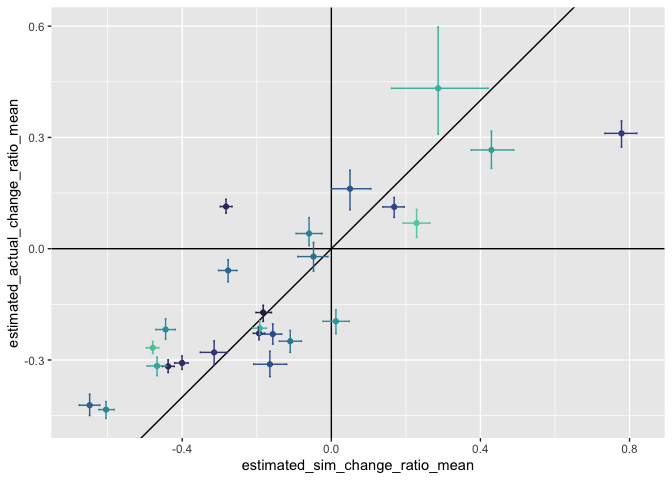
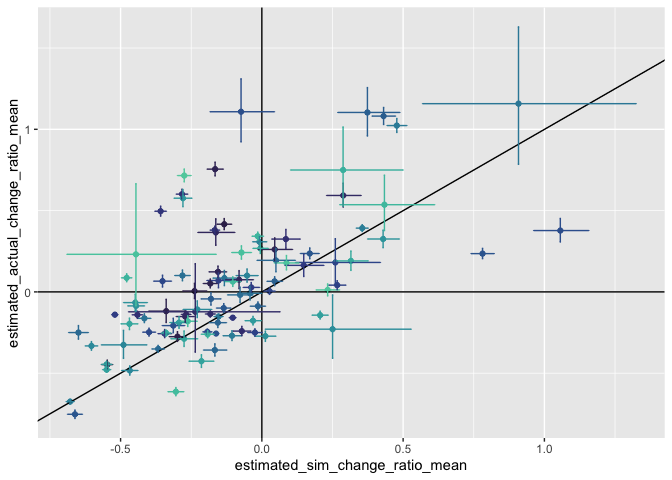
trying with just 1 sim

diff --git a/analysis_walkthroughs/resims_analysis.md b/analysis_walkthroughs/resims_analysis.md
@@ -16,12 +16,11 @@ short_sims <- filter(justsims, as.numeric(sim_iteration) <  50)
 # tbrm<- brm(total_energy ~ (timeperiod * source) / matssname, data = short_sims)
 #load(here::here("brm_50sims.Rds"))
 
-# This brm is from:
-# e_brm_full <- brm(total_energy ~ (timeperiod * source) / matssname, data = shortsims, cores = 4, iter = 10000, thin = 100)
+# Current brm is from biomass, 50 sims, 100 sites. 
 
-load(here::here("e_brm_short.Rds"))
+load(here::here("b_brm_short.Rds"))
 
-tbrm <- e_brm_short
+tbrm <- b_brm_short
 ```
 
 ``` r
@@ -155,18 +154,96 @@ ggplot(td_route_ests_summary, aes(estimated_sim_change_ratio_mean, estimated_act
 td_route_ests_summary <- td_route_ests_summary %>%
   arrange(estimated_sim_change_ratio_mean) %>%
   mutate(sim_change_ratio_rank = row_number()) %>%
-  mutate(omatssname = ordered(1:25, labels = matssname))
+  mutate(omatssname = ordered(1:nrow(td_route_ests_summary), labels = matssname))
 
 
 
 ggplot(td_route_ests_summary, aes(estimated_sim_change_ratio_mean, omatssname)) + 
-  geom_point() +
+ # geom_point() +
   geom_errorbarh(aes(xmin = estimated_sim_change_ratio_lower, xmax = estimated_sim_change_ratio_upper)) + 
-  geom_point(aes(x = estimated_actual_change_ratio_mean), color = "blue", alpha = .6) +
-  geom_errorbarh(aes(xmin = estimated_actual_change_ratio_lower, xmax = estimated_actual_change_ratio_upper), color = "blue", alpha = .6) + 
+ # geom_point(aes(x = estimated_actual_change_ratio_mean), color = "blue", alpha = .6) +
+  geom_errorbarh(aes(xmin = estimated_actual_change_ratio_lower, xmax = estimated_actual_change_ratio_upper), color = "blue", alpha = .3) + 
   geom_vline(xintercept = 0) +
   theme_bw() +
-  theme(axis.text.y = element_blank())
+  theme(axis.text.y = element_blank(), panel.grid.major= element_blank())
 ```
 
 ![](resims_analysis_files/figure-gfm/unnamed-chunk-4-1.png)<!-- -->
+
+Some interpretation points…
+
+``` r
+td_route_ests_interp <- td_route_ests_summary %>%
+  group_by_all() %>%
+  mutate(
+    abundance_change_ratio_over_zero = (estimated_sim_change_ratio_upper * estimated_sim_change_ratio_lower) < 0,
+    currency_over_abundance = ((estimated_sim_change_ratio_upper < estimated_actual_change_ratio_lower)),
+    abundance_over_currency = estimated_sim_change_ratio_lower > estimated_actual_change_ratio_upper,
+    currency_decouple = currency_over_abundance | abundance_over_currency
+  ) %>%
+  ungroup()
+
+
+
+ggplot(td_route_ests_interp, aes(estimated_sim_change_ratio_mean, omatssname, color = currency_decouple)) + 
+ # geom_point() +
+  geom_errorbarh(aes(xmin = estimated_sim_change_ratio_lower, xmax = estimated_sim_change_ratio_upper)) + 
+ # geom_point(aes(x = estimated_actual_change_ratio_mean), color = "blue", alpha = .6) +
+  geom_errorbarh(aes(xmin = estimated_actual_change_ratio_lower, xmax = estimated_actual_change_ratio_upper), alpha = .3) + 
+  geom_vline(xintercept = 0) +
+  theme_bw() +
+  theme(axis.text.y = element_blank(), panel.grid.major= element_blank(), legend.position = "none")
+```
+
+![](resims_analysis_files/figure-gfm/unnamed-chunk-5-1.png)<!-- -->
+
+``` r
+ggplot(td_route_ests_interp, aes(estimated_sim_change_ratio_mean, estimated_actual_change_ratio_mean, color= currency_decouple)) +
+  geom_point() +
+  geom_vline(xintercept = 0) +
+  geom_hline(yintercept = 0)+
+  geom_abline(intercept = 0, slope = 1) +
+  geom_errorbarh(aes(xmin = estimated_sim_change_ratio_lower, xmax = estimated_sim_change_ratio_upper, y = estimated_actual_change_ratio_mean), height = .005) +
+  geom_errorbar(aes(ymin = estimated_actual_change_ratio_lower, ymax = estimated_actual_change_ratio_upper, x = estimated_sim_change_ratio_mean), width = .005) +
+  scale_color_viridis_d(option='mako', begin = .2, end =.8) +
+  theme_bw() +
+  theme(legend.position = "bottom")
+```
+
+![](resims_analysis_files/figure-gfm/unnamed-chunk-5-2.png)<!-- -->
+
+``` r
+mean(td_route_ests_interp$abundance_change_ratio_over_zero)
+```
+
+    ## [1] 0.11
+
+``` r
+mean(td_route_ests_interp$estimated_sim_change_ratio_lower > 0)
+```
+
+    ## [1] 0.23
+
+``` r
+mean(td_route_ests_interp$estimated_sim_change_ratio_upper < 0)
+```
+
+    ## [1] 0.66
+
+``` r
+mean(td_route_ests_interp$abundance_over_currency)
+```
+
+    ## [1] 0.21
+
+``` r
+mean(td_route_ests_interp$currency_over_abundance)
+```
+
+    ## [1] 0.59
+
+``` r
+mean(td_route_ests_interp$currency_decouple)
+```
+
+    ## [1] 0.8
